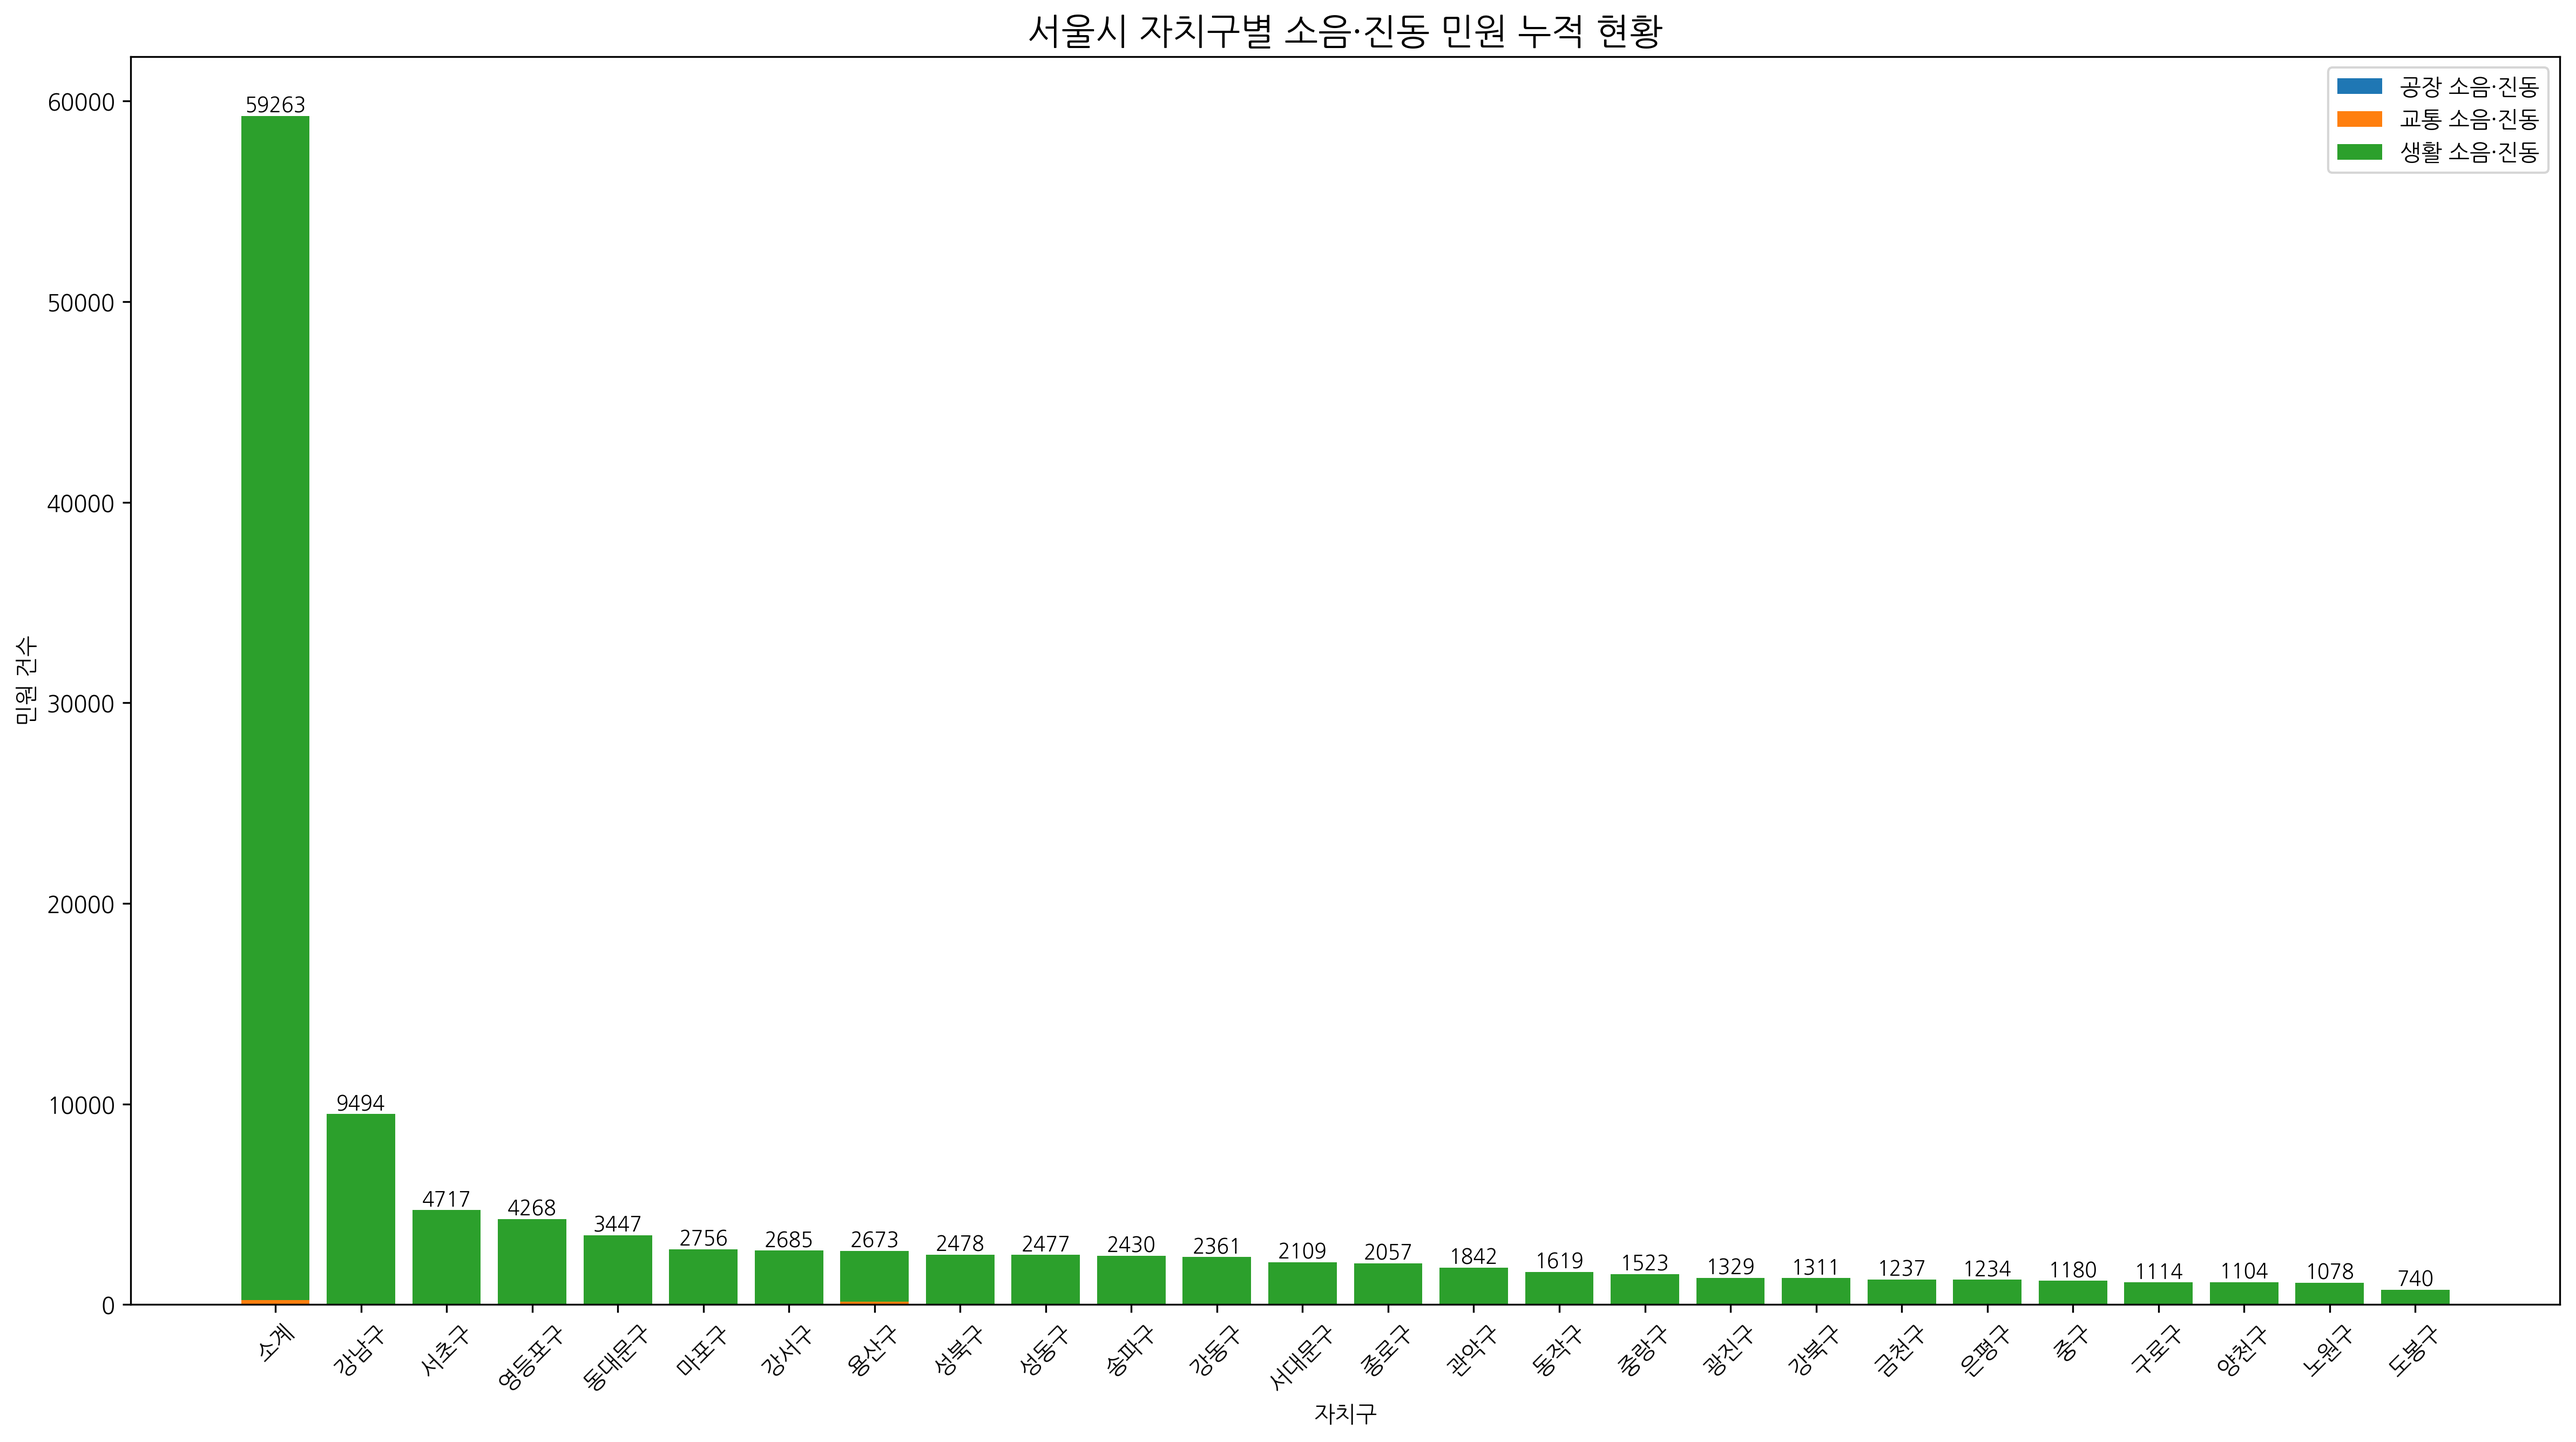
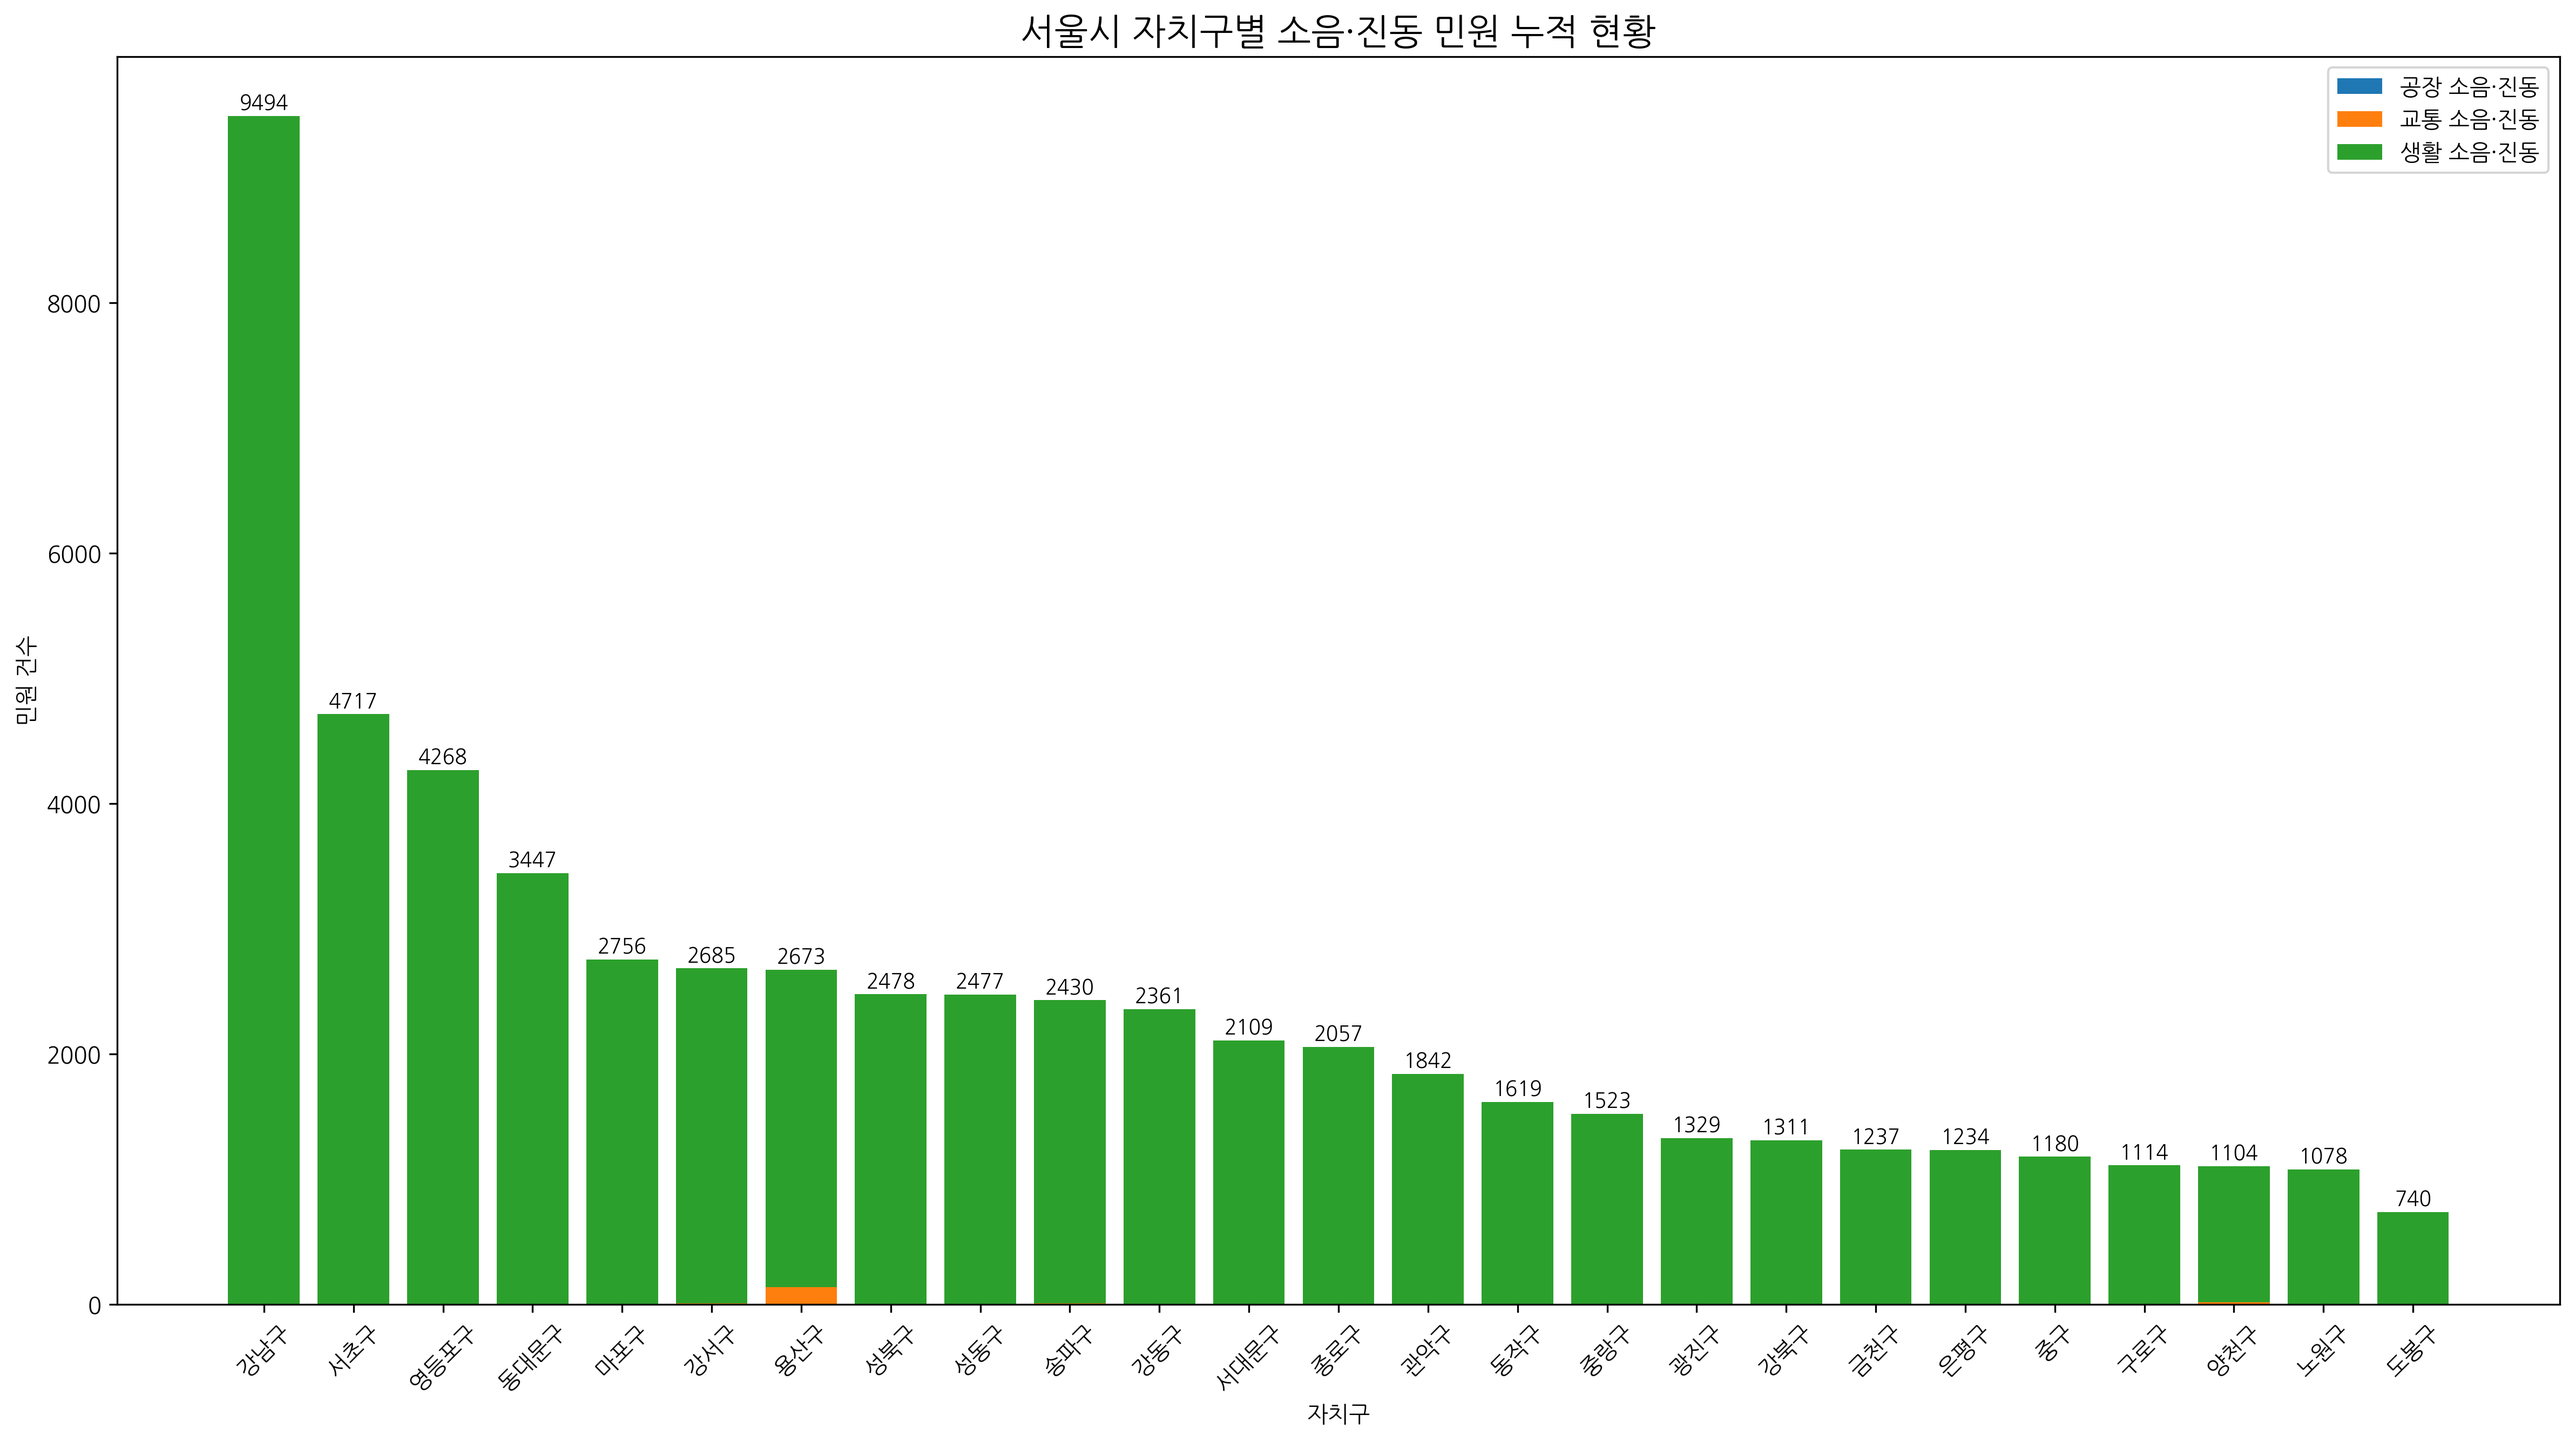
[chore] : 서울시_자치구별_소음·진동_민원-누적_현황 데이터 수정 - 소계 데이터 삭제

Changed region(s): [[0.0312, 0.0621, 0.9681, 0.994], [0.406, 0.0, 0.6558, 0.0311], [0.0312, 0.0621, 0.0625, 0.0932]]

diff --git a/src/visualization/seoul_noise_vibration_complaint/barchart.py b/src/visualization/seoul_noise_vibration_complaint/barchart.py
@@ -35,7 +35,7 @@ SELECT
     traffic_noise_vibration_complaint AS '교통 소음·진동',
     life_noise_vibration_complaint AS '생활 소음·진동'
 FROM seoul_noise_vibration_complaint
-WHERE district_level_2 != '합계'
+WHERE district_level_2 != '소계'
 """
 df = pd.read_sql(query, engine)
 
